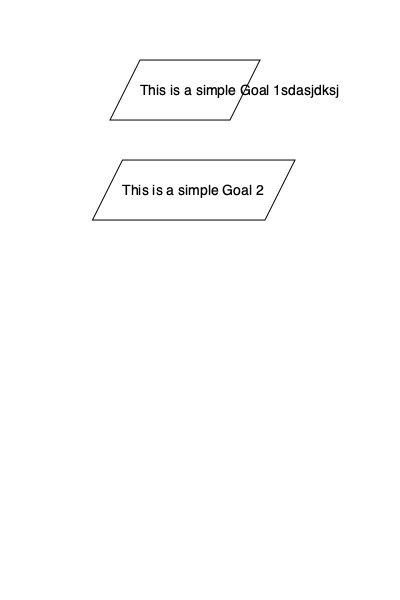
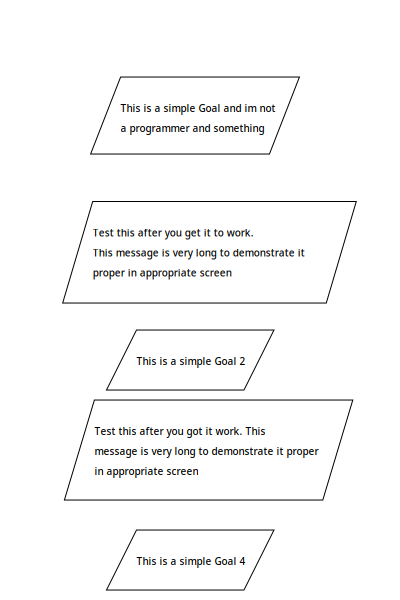
Feat(alignment): add multiline label and dynamic shape size features
I made a significant improvements to several parts, including dynamic
shape width and height size, dynamic proximity in the X and Y axes,
label issue related to shape overflow, label starting points, and
multiline label issues. Additionally, I centered everything on a single
Cairo surface.

However, the X and Y offsets for each shape, as well as the paper's
width and height, are not algorithmically determined; they are based on
drizzle lines, which I recognize is not the most appropriate method.
Nevertheless, this approach has resulted in much cleaner shapes in this
commit, which better control over label text fitting.

diff --git a/src/export.rs b/src/export.rs
@@ -61,7 +61,6 @@ pub fn convert_to_png(file_name: &str, surface_settings: SurfaceSettings) {
     // println!("{:#?}", mx_graph_model);
 
     // Main exported `.png` frame size.
-    // TODO: Make it dynamic surface (paper) size
     let surface = ImageSurface::create(
         Format::ARgb32,
         surface_settings.width as i32,
@@ -83,61 +82,36 @@ pub fn convert_to_png(file_name: &str, surface_settings: SurfaceSettings) {
             if vertex == "1" {
                 // MXGeometry settings like `x` and `y` coordinations or `width` and `height` size.
                 if let Some(geometry) = cell.mx_geometry {
-                    // Gets style string from MXCell. TODO: Needs to define default value.
+                    // Gets style string from MXCell.
                     let style_str = &cell.style.unwrap_or("".to_owned());
                     let mut shape_label: String = cell.value.unwrap_or(String::from(""));
 
                     // Gets shape size and geometry settings from MXGeometry.
                     let mut x = geometry.x.unwrap_or(0.0);
-                    let y = geometry.y.unwrap_or(0.0);
+                    let mut y = geometry.y.unwrap_or(0.0);
                     let mut width = geometry.width.unwrap_or(100.0);
-                    let height = geometry.height.unwrap_or(50.0);
+                    let mut height = geometry.height.unwrap_or(50.0);
 
                     // Makes object width dynamically and fixes x axis position start point.
-                    if shape_label.len() > 16 && shape_label.len() < 22 {
+                    // TODO: it needs to be clean.
+                    if shape_label.len() > 16 && shape_label.len() < 33 {
                         for _ in 0..shape_label.len() - 16 {
-                            width += 7.5;
-                            x -= 2.5;
+                            width += 2.5;
+                            x -= 0.5;
+                            y += 10.0;
                         }
                     } else {
-                        // Bad
-                        shape_label = shape_label[0..32].to_owned();
+                        for _ in 0..shape_label.len() - 25 {
+                            width += 1.73;
+                            height += 0.5;
+                            x -= 0.57;
+                            y += 0.5;
+                        }
+                        shape_label = multiline_label(shape_label, 8);
                     }
 
-                    // Set red color for the objects.
-                    context.set_source_rgb(1.0, 0.0, 0.0);
-
-                    // Converts `serde_json` HashMap to predefine ShapeStyleFromXml struct.
-                    let styles: ShapeStyleFromXml =
-                        serde_json::from_value(Value::Object(parse_style(style_str))).unwrap();
-
-                    match styles.shape.unwrap().as_str() {
-                        "parallelogram" => {
-                            let flip_h_value = styles
-                                .flip_h
-                                .unwrap_or("1".to_string())
-                                .parse::<i8>()
-                                .unwrap();
-                            parallelogram(&context, x, y, width, height, flip_h_value);
-                        }
-                        "hexagon" => {
-                            hexagon(&context, x, y, width, height);
-                        }
-                        _ => panic!("Shape panic: Error at shape rule."),
-                    }
-                    context.set_source_rgb(0.0, 0.0, 0.0);
-                    context.set_line_width(1.0);
-                    context.stroke().expect("Failed to draw rectangle.");
-
-                    // Label
-                    let label_y_position: f64 = geometry.y.unwrap() + 35.0;
-                    // Label positioning inside of shape
-                    // context.move_to(geometry.x.unwrap_or(0.0), label_y_position);
-                    context.move_to(x, label_y_position);
-                    context.set_font_size(14.0);
-                    context
-                        .show_text(&shape_label)
-                        .expect("Failed to draw text");
+                    draw_diagram(&context, x, y, width, height, &style_str);
+                    draw_multiline_label(&context, &shape_label, x, y + 35.0, 20.0);
                 }
             }
         }
@@ -159,7 +133,7 @@ pub fn convert_to_png(file_name: &str, surface_settings: SurfaceSettings) {
 /// />
 /// ```
 ///
-/// ### Output
+/// # Output
 ///
 /// ```json
 /// {
@@ -263,44 +237,114 @@ fn hexagon(context: &Context, x: f64, y: f64, width: f64, height: f64) {
     context.close_path();
 }
 
-pub fn label_line_control(v: String, per_word: usize) -> String {
-    let mut t: Vec<&str> = v.split_whitespace().collect();
+/// Modifies one line label to multiline label
+///
+/// Creates a multiline label by splitting the input text into lines with a
+/// specific number of words per line (chunk).
+///
+/// - `text`: A `String` containing the text to be split into multi lines.
+/// - `chunk`: The maximum number of words per line. If the number of words is
+/// not a multiple of `chunk` the last line may contain fewer words.
+///
+/// # Returns
+///
+/// A `String` where the input text is split into lines, with each line
+/// containing up to `chunk` words. Lines are separated by newline characters
+/// (`\n`).
+///
+/// # Example
+///
+/// ```
+///  let text: String = String::from("Test this after you got it work. This message is very long to demonstrate it proper in proper screen or any object without any size overflow (width overflow).");
+///  let modified: String = multiline_label(text, 8);
+///  let lines: Vec<&str> = modified.split("\n").collect();
+///  assert_eq!(lines.len(), 4, "Should be equal 4 line");
+/// ```
+fn multiline_label(text: String, chunk_size: usize) -> String {
+    let words: Vec<&str> = text.split_whitespace().collect();
+    let mut modified_label: String = String::from("");
 
-    let mut edited_v: String = String::from("");
-
-    if t.len() % per_word != 0 {
-        for _ in 0..t.len() % per_word {
-            t.push("");
-        }
+    for chunk in words.chunks(chunk_size) {
+        modified_label.push_str(&chunk.join(" "));
+        modified_label.push('\n');
     }
 
-    for i in 0..t.len() {
-        if i % per_word == 0 {
-            for j in i..i + per_word {
-                edited_v.push_str(t[j]);
-                edited_v.push_str(" ");
-            }
-            edited_v.push_str("\n");
-        }
-    }
+    return modified_label.trim_end().to_owned();
+}
 
-    return edited_v.trim().to_owned();
+/// Draw Specific Diagram
+fn draw_diagram(context: &Context, x: f64, y: f64, width: f64, height: f64, style_str: &str) {
+    // Converts `serde_json` HashMap to predefine ShapeStyleFromXml struct.
+    let styles: ShapeStyleFromXml =
+        serde_json::from_value(Value::Object(parse_style(style_str))).unwrap();
+
+    match styles.shape.unwrap().as_str() {
+        "parallelogram" => {
+            let flip_h_value = styles
+                .flip_h
+                .unwrap_or("1".to_string())
+                .parse::<i8>()
+                .unwrap();
+            parallelogram(&context, x, y, width, height, flip_h_value);
+        }
+        "hexagon" => {
+            hexagon(&context, x, y, width, height);
+        }
+        _ => panic!("Shape panic: Error at shape rule."),
+    }
+    context.set_source_rgb(0.0, 0.0, 0.0);
+    context.set_line_width(1.0);
+    context.stroke().expect("Failed to draw specific diagram.");
+}
+
+/// Draw multiline label with Cairo
+fn draw_multiline_label(context: &Context, text: &str, x: f64, y: f64, line_spacing: f64) {
+    context.set_source_rgb(0.0, 0.0, 0.0);
+    // Initial position for the first line
+    let mut current_y = y;
+
+    for line in text.split('\n') {
+        context.move_to(x, current_y);
+        context
+            .show_text(line)
+            .expect("Cairo error: failed to draw text");
+        current_y += line_spacing;
+    }
 }
 
 #[cfg(test)]
 mod test {
-    use super::label_line_control;
+    use super::multiline_label;
 
     #[test]
-    fn line_test_label_line_control() {
-        let user_object_label_input: String = String::from("Test this after you got it work. This message is very long to demonstrate it proper in proper screen or any object without any size overflow (width overflow).");
-        let modified_one_line_label: String = label_line_control(user_object_label_input, 8);
-        let lines: Vec<&str> = modified_one_line_label.split("\n").collect();
+    fn four_line_test() {
+        let text: String = String::from("Test this after you got it work. This message is very long to demonstrate it proper in proper screen or any object without any size overflow (width overflow).");
+        let modified: String = multiline_label(text, 8);
+        let lines: Vec<&str> = modified.split('\n').collect();
         assert_eq!(lines.len(), 4, "Should be equal 4 line");
-        assert_ne!(
-            lines[modified_one_line_label.len()],
-            " ",
-            "Should not have any whitespace."
-        )
+    }
+
+    #[test]
+    fn two_line_test() {
+        let text: String = String::from("Test this after you got it work. This message is very long to demonstrate it proper in proper screen or any object without any size overflow (width overflow).");
+        let modified: String = multiline_label(text, 14);
+        let lines: Vec<&str> = modified.split('\n').collect();
+        assert_eq!(lines.len(), 2, "Should be equal 2 line");
+    }
+
+    #[test]
+    fn white_space_test() {
+        let text: String = String::from("Test this after you got it work. This message is very long to demonstrate it proper in proper screen or any object without any size overflow (width overflow).");
+        let modified: String = multiline_label(text, 8);
+        let last_char = &modified.chars().nth(modified.len() - 1);
+        assert_ne!(last_char.unwrap(), ' ', "Should not have any whitespace.");
+    }
+
+    #[test]
+    fn one_line_test() {
+        let text: String = String::from("Test this after you got it work. This message is very long to demonstrate it proper in proper screen or any object without any size overflow (width overflow).");
+        let modified: String = multiline_label(text, 1);
+        let lines: Vec<&str> = modified.split('\n').collect();
+        assert_eq!(lines.len(), 28);
     }
 }

diff --git a/README.md b/README.md
@@ -13,7 +13,7 @@
 <Agent processes over a specific Goal>
 ```
 
-## TODO
+## TODO Level 1
 
 + [ ] Create State Machine diagram for `lamda_red` pest grammar,
 + [x] Make it standalone instead of import exported `.xml` file to draw.io app
@@ -22,25 +22,33 @@
         + [x] Hexagon
         + [x] Parallelogram
         + [x] Flipped Parallelogram
-    + [ ] Label issue, position of start and end
-    + [ ] Multi line Label issue
+    + [x] Label issue, position of start and end
+    + [x] Multiline Label issue
     + [x] Centerline diagram
     + [x] Create compatible (surface) paper to generate `png` with proper
           `width` and `height` size
-    + [ ] Dynamic width and height object size (Parsing section)
-    + [ ] Dynamic width object proximity
-    + [x] Dynamic height object proximity
+    + [x] Dynamic width and height object size (Parsing and export section)
+    + [ ] Dynamic x object proximity
+    + [x] Dynamic y object proximity
+    + [ ] Dynamic page surface doesn't work with drizzle file lines.
+      + [ ] Implement it with size of (x, y, width, height) every shape
 + [ ] Create line between two and a few objects
     + [ ] Connection and communication between levels
 + [ ] Make diagram stateful with any position situation (with other shapes and
       their connectivity)
-+ [ ] Make it web-based service
-+ [ ] React App, it can request to a Rust server
-+ [ ] Serve `png` as production of diagrams into server-client
 + [x] Define comment rule in `lamda_red` pest grammar.
 + [x] VSCode Drizzle Extension Library to Syntax-Highlighting
     + [x] Create syntax highlighter for `.zz` extension files
 + [ ] Syntax error in single quotation
+
+## TODO Level 2
+
++ [ ] Add CLI feature
+  + [ ] Read file from another path like a standalone software
++ [ ] Add theme color support
++ [ ] Make it web-based service
++ [ ] React App, it can request to a Rust server
++ [ ] Serve `png` as production of diagrams into server-client
 
 
 [Official](https://jgraph.github.io/mxgraph/docs/js-api/files/model/mxGraphModel-js.html)
